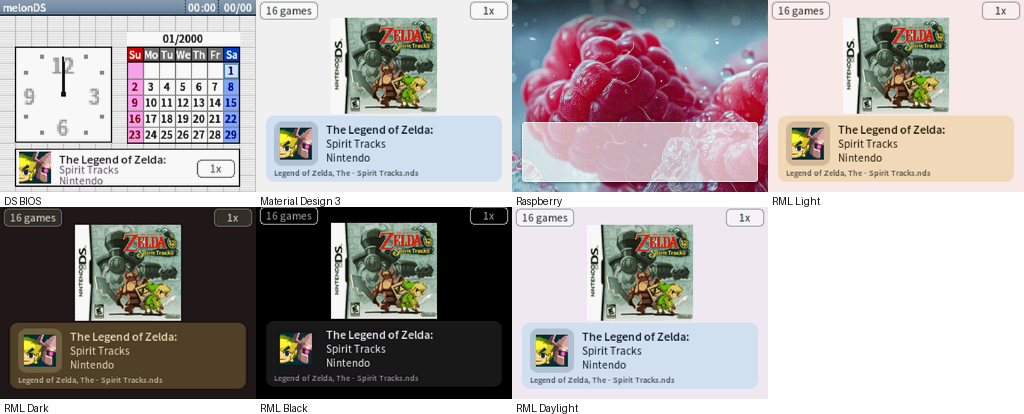
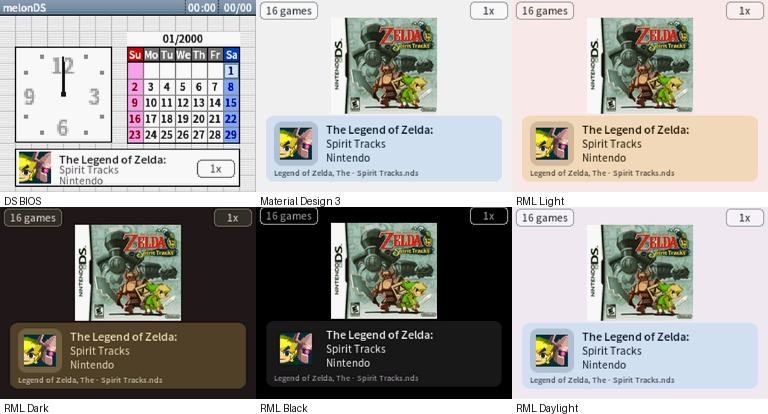
Themes gallery: six in a 3x2 grid, without Raspberry

diff --git a/README.md b/README.md
@@ -34,15 +34,14 @@ stock launcher any time by restoring the old `_picoboot.nds`.
 
 ## Themes
 
-![The themes included](docs/images/Themes.png)
+![Six of the themes included](docs/images/Themes.png)
 
-Seven themes ship in `_pico/themes`. Switch between them with **gear → paintbrush**.
+Seven themes ship in `_pico/themes` — the six above, plus upstream's Raspberry. Switch between them with **gear → paintbrush**.
 
 | Theme | Type | |
 |---|---|---|
 | **DS BIOS** | `dsbios` | The Nintendo DS home screen, drawn in code |
 | **Material Design 3** | `material` | Upstream's default, by Gericom |
-| **Raspberry** | `custom` | Upstream's wallpaper theme, by Gericom |
 | **RML Light / Dark** | `material` | Seeded with the RetroModLab yellow |
 | **RML Black** | `material` | True black for an unlit screen, with a white accent |
 | **RML Daylight** | `material` | White and light grey, cool neutral |
